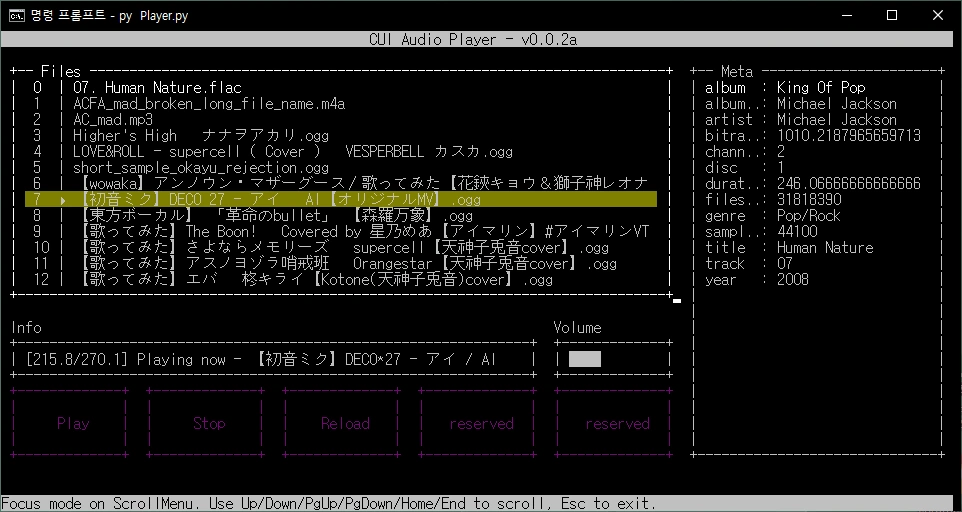
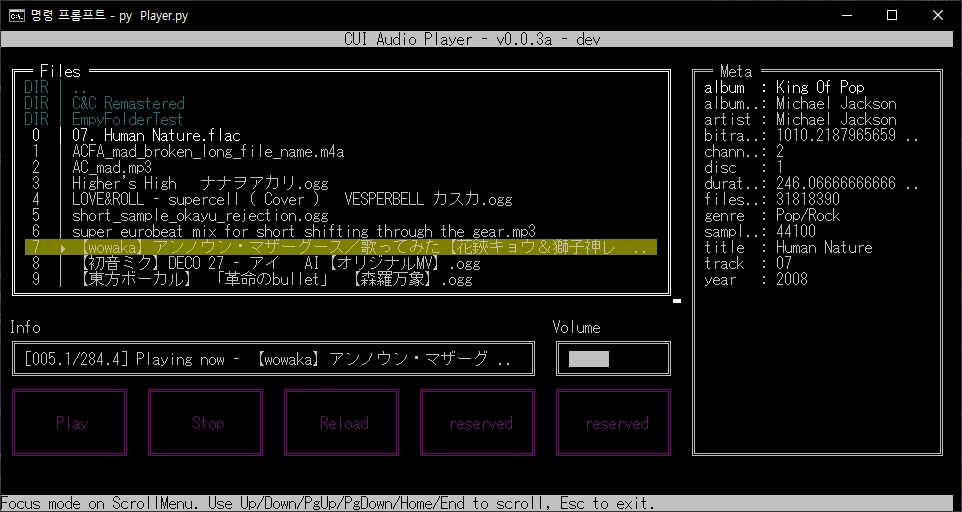
Updated img, version and readme.

diff --git a/Player.py b/Player.py
@@ -29,7 +29,7 @@ assert CompatibilityPatch
 # Assuming relative location
 AUDIO_FOLDER = "audio_files"
 AUDIO_TYPES = ".ogg", ".mp3", ".m4a", ".flac"
-VERSION_TAG = "0.0.2a"
+VERSION_TAG = "0.0.3a - dev"
 WINDOWS = platform == 'win32'
 
 

diff --git a/README.md b/README.md
@@ -7,7 +7,7 @@ Will show as broken on other configurations on Win10.
 
 Although this project strictly follow PEP8 at best, readability might not.
 
-*0.0.2a - 2x speed*  
+*0.0.3a - dev*  
 ![](Demo/Images/Demo.webp)
 
 ---
